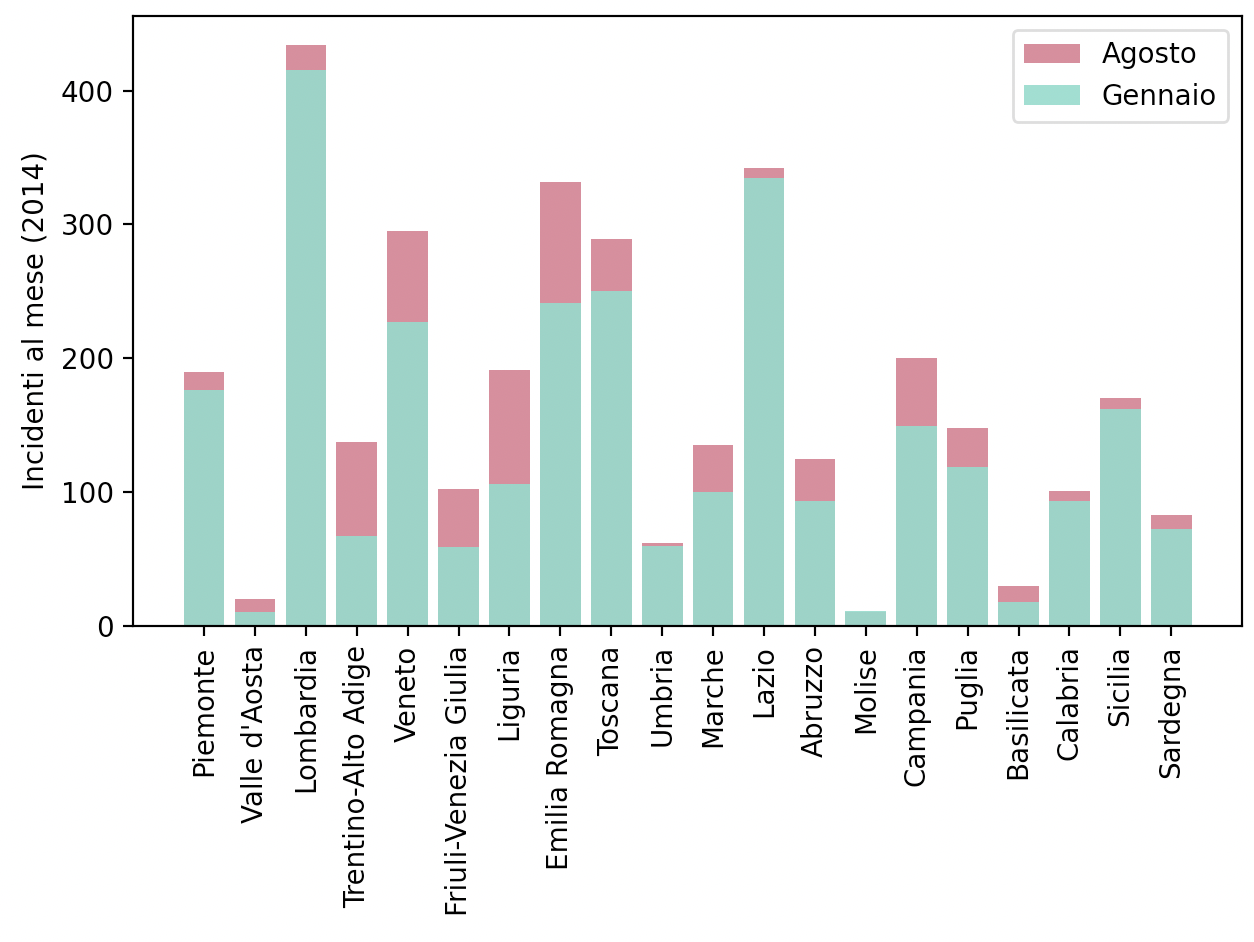
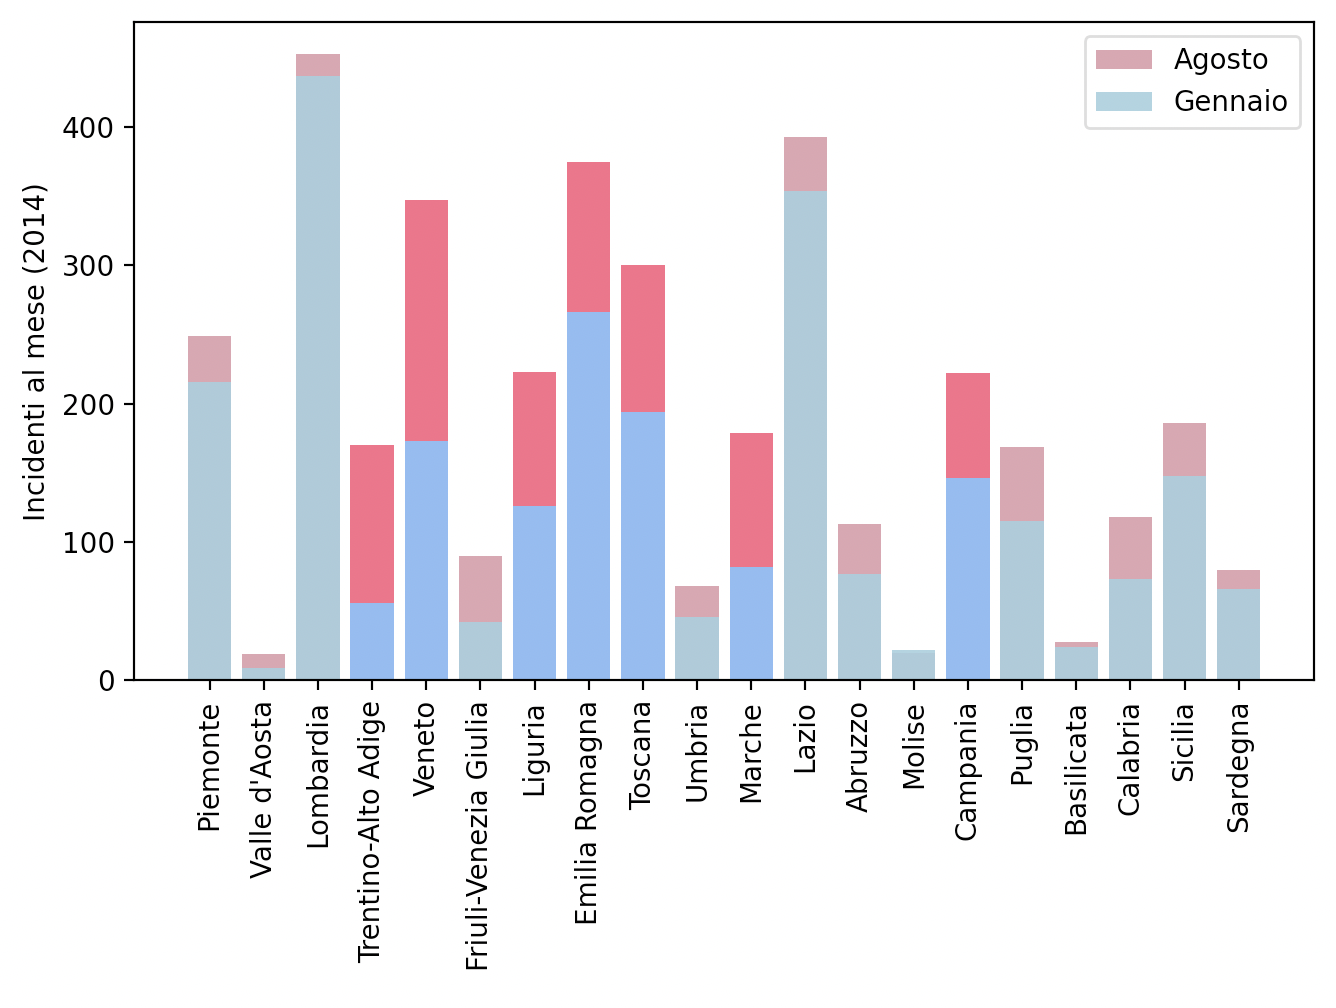
modifiche a grafi

Changed region(s): [[0.0, 0.0, 0.9952, 0.9851]]

diff --git a/src/incidenti/incidenti_senza_coords/mese_incidenti/milano_rimini.py b/src/incidenti/incidenti_senza_coords/mese_incidenti/milano_rimini.py
@@ -17,38 +17,45 @@ for giorni_in_mese in [31, 28, 31, 30, 31, 30, 31, 31, 30, 31, 30, 31]:
 milano_media = milano_mese.mean()
 rimini_media = rimini_mese.mean()
 
-# TODO: separa le barre e prova fill a retina
-
-#plt.xlabel("Mese")
-#plt.ylabel("Incidenti al giorno (2010)")
-#plt.plot([-1, 15], [milano_media, milano_media], color='#c0d147', label='Media Milano')
-#plt.plot([-1, 15], [rimini_media, rimini_media], color='#c0d147', label='Media Rimini')
-#plt.text(11.7,milano_media - 0.1,'Media Milano')
-#plt.text(11.7,rimini_media - 0.1,'Media Rimini')
-#milano_mese.plot.bar(width=0.8, color='#5747d1')
-#rimini_mese.plot.bar(width=0.8, color='#d15747')
-#plt.tight_layout()
-#plt.show()
+pd.DataFrame([milano_mese, rimini_mese], ['Milano', 'Rimini']).transpose().plot.bar(
+    width=0.9,
+    color={
+        'Milano': '#5747d1',
+        'Rimini': '#d15747'
+    }
+)
+plt.xlabel("Mese")
+plt.ylabel("Incidenti al giorno (2010)")
+plt.xticks(range(0,12), ["Gennaio","Febbraio","Marzo","Aprile","Maggio","Giugno","Luglio","Agosto","Settembre","Ottobre","Novembre","Dicembre"])
+plt.plot([-1, 15], [milano_media, milano_media], color='#c0d147')
+plt.plot([-1, 15], [rimini_media, rimini_media], color='#c0d147')
+plt.text(11.8,milano_media - 0.1,'Media Milano')
+plt.text(11.8,rimini_media - 0.1,'Media Rimini')
+# milano_mese.plot.bar(width=0.8, color='#5747d1')
+# rimini_mese.plot.bar(width=0.8, color='#d15747')
+plt.legend(bbox_to_anchor=(1,1), loc="upper left")
+plt.tight_layout()
+plt.show()
 
 # Calcolo perc di incremento
 
-def variazione_perc(x : float, y : float) -> float: 
-    return (y / x) * 100 -100
+# def variazione_perc(x : float, y : float) -> float: 
+#     return (y / x) * 100 -100
 
-path = "dataset/incidenti/incidenti_"
-for year in range(2010, 2014):
-    dati = pd.read_csv(path + str(year) + ".txt", sep='\t')
-    rimini_mese = dati[dati['provincia'] == 99]['mese'].value_counts().sort_index()
+# path = "dataset/incidenti/incidenti_"
+# for year in range(2010, 2014):
+#     dati = pd.read_csv(path + str(year) + ".txt", sep='\t')
+#     rimini_mese = dati[dati['provincia'] == 99]['mese'].value_counts().sort_index()
 
-    index = 0
-    for giorni_in_mese in [31, 28, 31, 30, 31, 30, 31, 31, 30, 31, 30, 31]:
-        rimini_mese.iloc[index] /= giorni_in_mese
-        index += 1
+#     index = 0
+#     for giorni_in_mese in [31, 28, 31, 30, 31, 30, 31, 31, 30, 31, 30, 31]:
+#         rimini_mese.iloc[index] /= giorni_in_mese
+#         index += 1
 
-    media = rimini_mese.mean()
-    agosto = rimini_mese.iloc[6]
+#     media = rimini_mese.mean()
+#     agosto = rimini_mese.iloc[6]
 
-    print(str(year) + ": " + str(variazione_perc(media, agosto)))
+#     print(str(year) + ": " + str(variazione_perc(media, agosto)))
 
 # Incremento rispetto alla media
 # 2010: 63.75

diff --git a/tesi/Tesi.tex b/tesi/Tesi.tex
@@ -695,13 +695,13 @@ province di Brescia e Palermo.
 \end{figure}
 
 \begin{figure}
-    \includegraphics[width=0.4\linewidth]{../src/incidenti/incidenti_senza_coords/mese_incidenti/milano_rimini.png}
+    \includegraphics[width=\linewidth]{../src/incidenti/incidenti_senza_coords/mese_incidenti/milano_rimini.png}
     \caption{Incidenti per mese a Milano e Rimini}
     \label{fig:milano-rimini}
 \end{figure}
 
 \begin{figure}
-    \includegraphics[width=0.4\linewidth]{../src/incidenti/incidenti_senza_coords/mese_incidenti/palermo_milano.png}
+    \includegraphics[width=\linewidth]{../src/incidenti/incidenti_senza_coords/mese_incidenti/palermo_milano.png}
     \caption{Incidenti per mese a Milano e Palermo}
     \label{fig:palermo-milano}
 \end{figure}
@@ -1008,7 +1008,6 @@ L'indice di correlazione utilizzato è il coefficiente di Pearson.
     Incidenti & Incidenti & Feriti \\ 
     Feriti & Morti & Morti \\ 
     \hline
-    \rowcolor{TableGray}
     0.9827 & 0.8205 & 0.8332 \\ 
     \hline
     \end{tabular}
@@ -1098,7 +1097,7 @@ prevalgono incidenti in Luglio e Agosto.
 
 \begin{figure}
     \includegraphics[width=0.6\linewidth]{../src/incidenti/incidenti_aci/autostrade/legenda_autostrade.png}
-    \includegraphics[width=0.5\linewidth]{../src/incidenti/incidenti_aci/autostrade/legenda_tangenziali.png}
+    \includegraphics[width=0.45\linewidth]{../src/incidenti/incidenti_aci/autostrade/legenda_tangenziali.png}
 \end{figure}
 
 Il grafo \ref{fig:tangenziali-autostrade} conferma per alcune autostrade i picchi di 

diff --git a/src/incidenti/incidenti_senza_coords/mese_incidenti/palermo_milano.py b/src/incidenti/incidenti_senza_coords/mese_incidenti/palermo_milano.py
@@ -16,14 +16,23 @@ for giorni_in_mese in [31, 28, 31, 30, 31, 30, 31, 31, 30, 31, 30, 31]:
 milano_media = milano_mese.mean()
 palermo_media = palermo_mese.mean()
 
+pd.DataFrame([milano_mese, palermo_mese], ['Milano', 'Palermo']).transpose().plot.bar(
+    width=0.9, 
+    color={
+        'Milano': '#4566c1',
+        'Palermo': '#66c145'
+    },
+)
+
 plt.xlabel("Mese")
 plt.ylabel("Incidenti al giorno (2011)")
+plt.xticks(range(0,12), ["Gennaio","Febbraio","Marzo","Aprile","Maggio","Giugno","Luglio","Agosto","Settembre","Ottobre","Novembre","Dicembre"])
 plt.plot([-1, 15], [milano_media, milano_media], color='#f9f03b')
 plt.plot([-1, 15], [palermo_media, palermo_media], color='#f9f03b')
 plt.text(11.8,milano_media - 0.1,'Media Milano')
 plt.text(11.8,palermo_media - 0.1,'Media Palermo')
-milano_mese.plot.bar(width=0.9, color='#4566c1', alpha=1.0, label='Milano')
-palermo_mese.plot.bar(width=0.9, color='#66c145', alpha=0.5, label='Palermo')
+# milano_mese.plot.bar(width=0.9, color='#4566c1', alpha=1.0, label='Milano', stacked=False)
+# palermo_mese.plot.bar(width=0.9, color='#66c145', alpha=0.5, label='Palermo', stacked=False)
 plt.legend()
 plt.tight_layout()
 plt.show()

diff --git a/src/incidenti/incidenti_aci/mappe_regioni/mappe_estate.py b/src/incidenti/incidenti_aci/mappe_regioni/mappe_estate.py
@@ -54,8 +54,20 @@ gennaio.index = gennaio['REGIONE']
 agosto = agosto['Agosto']
 gennaio = gennaio['Gennaio']
 
-plt.bar(agosto.index, agosto, label='Agosto',  color='#d8758c')
-plt.bar(gennaio.index, gennaio, label='Gennaio', alpha=0.9, color='#75d8c1')
+red_ls = ['#d693a3']*20
+red_ls[3:8] = ['#f65578']*6
+red_ls[5] = '#d693a3'
+red_ls[10] = '#f65578'
+red_ls[14] = '#f65578'
+
+blue_ls = ['#95c6d8']*20
+blue_ls[3:8] = ['#70b8ff']*6
+blue_ls[5] = '#95c6d8'
+blue_ls[10] = '#70b8ff'
+blue_ls[14] = '#70b8ff'
+
+plt.bar(agosto.index, agosto, label='Agosto',  color=red_ls)
+plt.bar(gennaio.index, gennaio, label='Gennaio', alpha=0.9, color=blue_ls)
 plt.xticks(rotation=90)
 plt.ylabel("Incidenti al mese (2014)")
 plt.legend()
